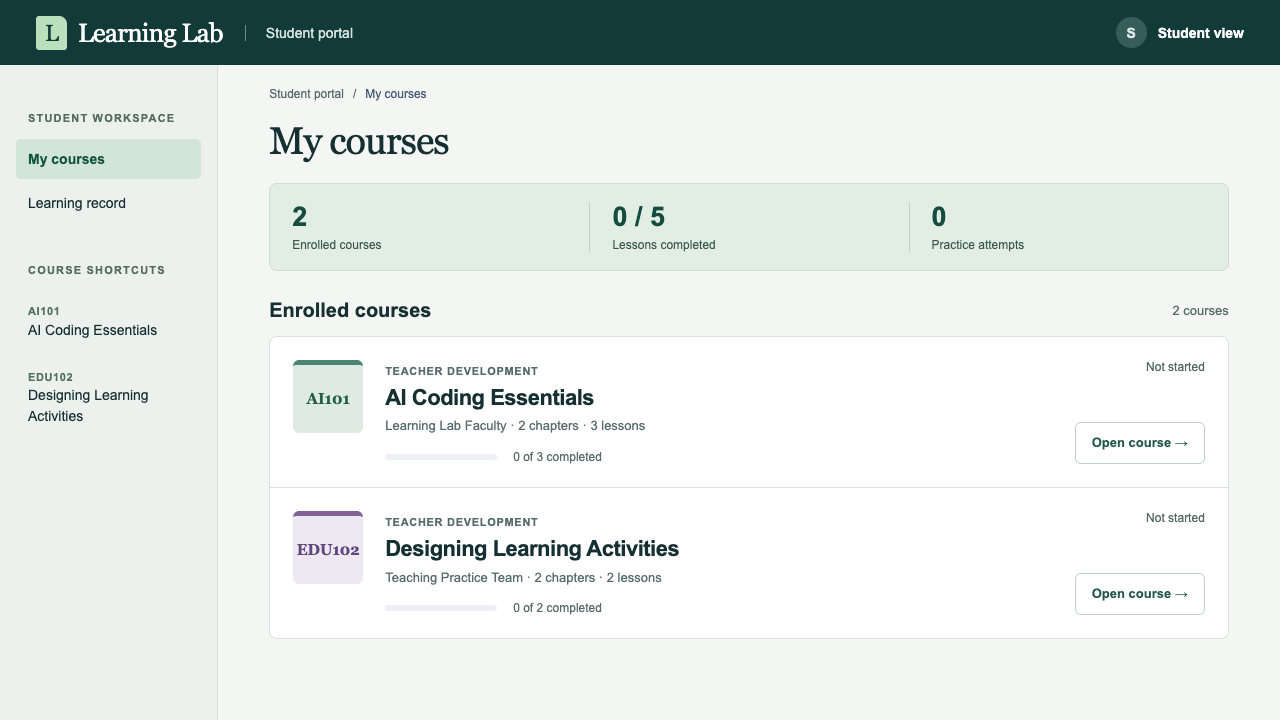
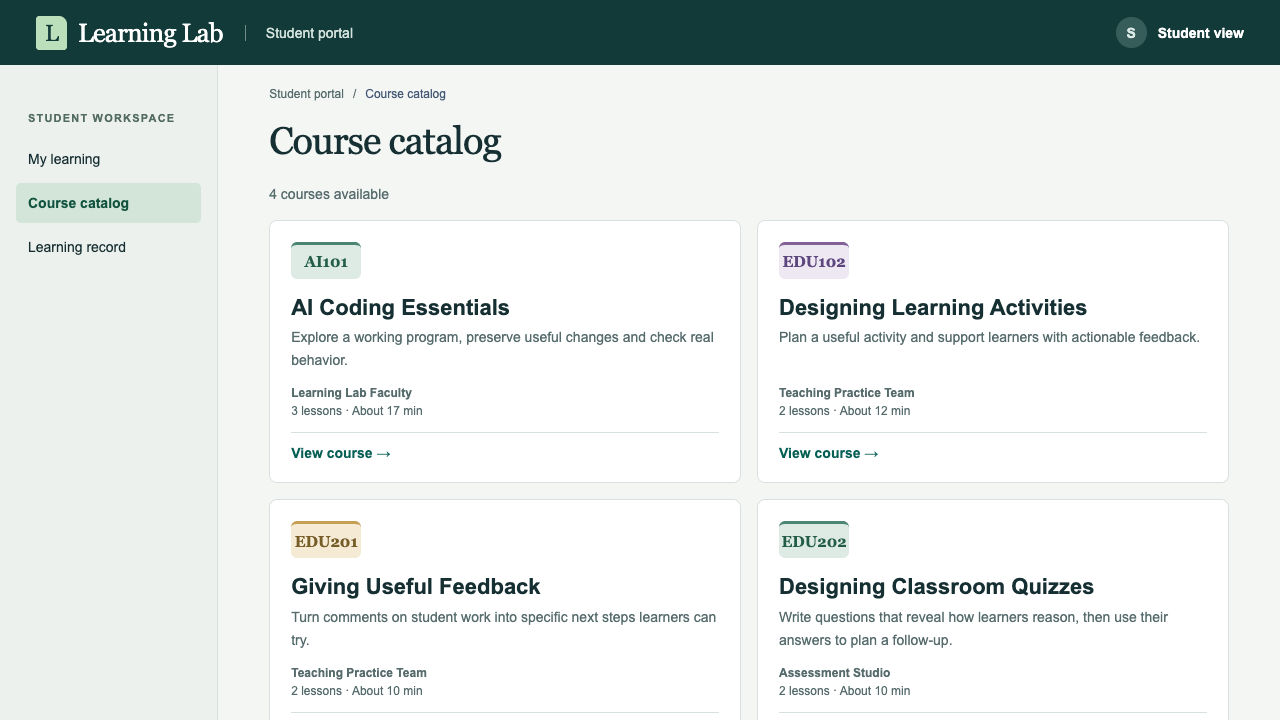
Verify catalog access, legacy enrollment recovery and persistent resume

diff --git a/learning_lab/templates/not-found.html b/learning_lab/templates/not-found.html
@@ -6,6 +6,6 @@
     <p class="eyebrow">LEARNING LAB</p>
     <h1>This page is unavailable.</h1>
     <p>Choose a course and open a lesson from its contents.</p>
-    <a class="button primary" href="/">My courses</a>
+    <a class="button primary" href="/">My learning</a>
   </main>
 </html>

diff --git a/tests/test_enrollment.py b/tests/test_enrollment.py
@@ -1,0 +1,86 @@
+import sqlite3
+import tempfile
+import unittest
+from pathlib import Path
+
+from learning_lab import create_app
+
+
+class EnrollmentTests(unittest.TestCase):
+    def setUp(self):
+        self.tmp = tempfile.TemporaryDirectory()
+        self.addCleanup(self.tmp.cleanup)
+        self.db_path = Path(self.tmp.name) / "learning.sqlite"
+        self.config = {"TESTING": True, "SECRET_KEY": "stable-test-key", "DATABASE": str(self.db_path)}
+        self.app = create_app(self.config)
+        self.client = self.app.test_client()
+        self.headers = {"X-CSRF-Token": self.client.get("/api/dashboard").json["csrf_token"]}
+
+    def enroll(self, course):
+        return self.client.post(f"/api/courses/{course}/enroll", json={}, headers=self.headers)
+
+    def open(self, course, lesson):
+        return self.client.post(f"/api/courses/{course}/lessons/{lesson}/open", json={}, headers=self.headers)
+
+    def test_fresh_profile_can_browse_but_has_no_enrolled_courses(self):
+        self.assertEqual(self.client.get("/api/dashboard").json["courses"], [])
+        catalog = self.client.get("/api/courses").json["courses"]
+        self.assertEqual(len(catalog), 4)
+        for course in catalog:
+            self.assertIsNone(course["enrollment"])
+            self.assertGreater(course["duration_minutes"], 0)
+        detail = self.client.get("/api/courses/useful-feedback").json
+        lesson = detail["course"]["chapters"][0]["lessons"][0]
+        self.assertIn("title", lesson)
+        self.assertNotIn("paragraphs", lesson)
+        self.assertFalse(self.client.get("/api/dashboard").json["lessons"])
+        redirect = self.client.get("/courses/useful-feedback/lessons/notice-the-work")
+        self.assertTrue(redirect.location.endswith("/courses/useful-feedback"))
+
+    def test_writes_require_enrollment_and_validate_lesson_ownership(self):
+        self.assertEqual(self.open("useful-feedback", "notice-the-work").status_code, 403)
+        self.assertEqual(self.enroll("missing").status_code, 404)
+        self.assertEqual(self.client.post("/api/answers", json={"question_id":"python-input", "choice":"A"},
+                                         headers=self.headers).status_code, 403)
+        self.assertEqual(self.client.post("/api/lessons/first-program/complete", json={"completed":True},
+                                         headers=self.headers).status_code, 403)
+        self.enroll("useful-feedback")
+        self.assertEqual(self.open("useful-feedback", "activity-design").status_code, 404)
+        self.assertEqual(self.open("useful-feedback", "notice-the-work").status_code, 200)
+        detail = self.client.get("/api/courses/useful-feedback").json
+        self.assertTrue(detail["course"]["chapters"][0]["lessons"][0]["paragraphs"])
+
+    def test_resume_is_independent_per_course_and_latest_across_courses(self):
+        self.enroll("ai-coding")
+        self.enroll("useful-feedback")
+        self.open("ai-coding", "first-program")
+        self.open("useful-feedback", "choose-one-revision")
+        self.open("ai-coding", "git-checkpoint")
+        self.enroll("useful-feedback")
+        other = self.app.test_client()
+        self.assertFalse(other.get("/api/dashboard").json["courses"])
+        fresh = create_app(self.config).test_client()
+        fresh.set_cookie("session", self.client.get_cookie("session").value)
+        courses = fresh.get("/api/dashboard").json["courses"]
+        self.assertEqual(len(courses), 2)
+        latest = max(courses, key=lambda c: c["enrollment"]["opened_order"])
+        self.assertEqual((latest["id"], latest["entry_lesson"]["id"]), ("ai-coding","git-checkpoint"))
+        self.assertEqual(fresh.get("/api/courses/useful-feedback").json["entry_lesson"]["id"], "choose-one-revision")
+        self.assertEqual(latest["completed"], [])
+        self.assertEqual(latest["attempt_count"], 0)
+
+    def test_old_records_restore_only_courses_with_real_activity(self):
+        with self.client.session_transaction() as sess:
+            learner = sess["learner"]
+        with sqlite3.connect(self.db_path) as db:
+            db.execute("DROP TABLE enrollments")
+            db.execute("INSERT INTO completed_lessons VALUES (?,?)", (learner,"activity-design"))
+            db.execute("INSERT INTO attempts(learner,question_id,choice,correct,mode) VALUES (?,?,?,?,?)",
+                       (learner, "python-input", "A", 1, "quiz"))
+        restarted = create_app(self.config).test_client()
+        restarted.set_cookie("session", self.client.get_cookie("session").value)
+        dashboard = restarted.get("/api/dashboard").json
+        self.assertEqual([c["id"] for c in dashboard["courses"]], ["ai-coding","teaching-practice"])
+        self.assertEqual(dashboard["score"], {"correct":1,"answered":1})
+        self.assertEqual(dashboard["completed"], ["activity-design"])
+        self.assertEqual(dashboard["attempt_count"], 1)

diff --git a/tests/test_app.py b/tests/test_app.py
@@ -14,6 +14,9 @@ class ClassroomTests(unittest.TestCase):
         self.client = self.app.test_client()
         self.initial = self.client.get("/api/dashboard").get_json()
         self.headers = {"X-CSRF-Token": self.initial["csrf_token"]}
+        for course in ("ai-coding", "teaching-practice"):
+            self.client.post(f"/api/courses/{course}/enroll", json={}, headers=self.headers)
+        self.initial = self.client.get("/api/dashboard").get_json()
 
     def tearDown(self):
         self.directory.cleanup()
@@ -30,7 +33,7 @@ class ClassroomTests(unittest.TestCase):
             with self.client.get("/static/" + name) as asset:
                 self.assertEqual(asset.status_code, 200)
 
-    def test_fresh_profile_has_lessons_without_answer_keys(self):
+    def test_enrolled_profile_has_lessons_without_answer_keys(self):
         self.assertEqual(len(self.initial["lessons"]), 5)
         self.assertEqual(self.initial["score"], {"correct": 0, "answered": 0})
         self.assertEqual(self.initial["completed"], [])
@@ -109,7 +112,8 @@ class ClassroomTests(unittest.TestCase):
 
     def test_courses_have_real_chapters_and_scoped_lesson_routes(self):
         listing = self.client.get("/api/courses").get_json()
-        self.assertEqual([c["id"] for c in listing["courses"]], ["ai-coding", "teaching-practice"])
+        self.assertEqual([c["id"] for c in listing["courses"]], ["ai-coding", "teaching-practice",
+                          "useful-feedback", "classroom-quizzes"])
         detail = self.client.get("/api/courses/ai-coding").get_json()
         self.assertEqual(len(detail["course"]["chapters"]), 2)
         self.assertEqual(detail["progress"]["lesson_count"], 3)

diff --git a/learning_lab/routes.py b/learning_lab/routes.py
@@ -10,6 +10,8 @@ def identity():
     if "learner" not in session:
         session["learner"] = secrets.token_hex(16)
         session["csrf"] = secrets.token_hex(24)
+    if not session.permanent:
+        session.permanent = True
     return session["learner"]
 
 

diff --git a/GLOSSARY.md b/GLOSSARY.md
@@ -16,3 +16,7 @@ answer to each question; later practice does not replace that result.
 from a quiz mark.
 **Learning record**: A summary across the learner's enrolled courses.
 **My progress**: The learner's reading completion and practice record in one course.
+**Course catalog**: The public list of available courses and their syllabi.
+**Enrollment**: A learner's membership in one course.
+**My learning**: The learner's own courses and most recent place to continue.
+**Last opened lesson**: The lesson a learner most recently opened in a course.
